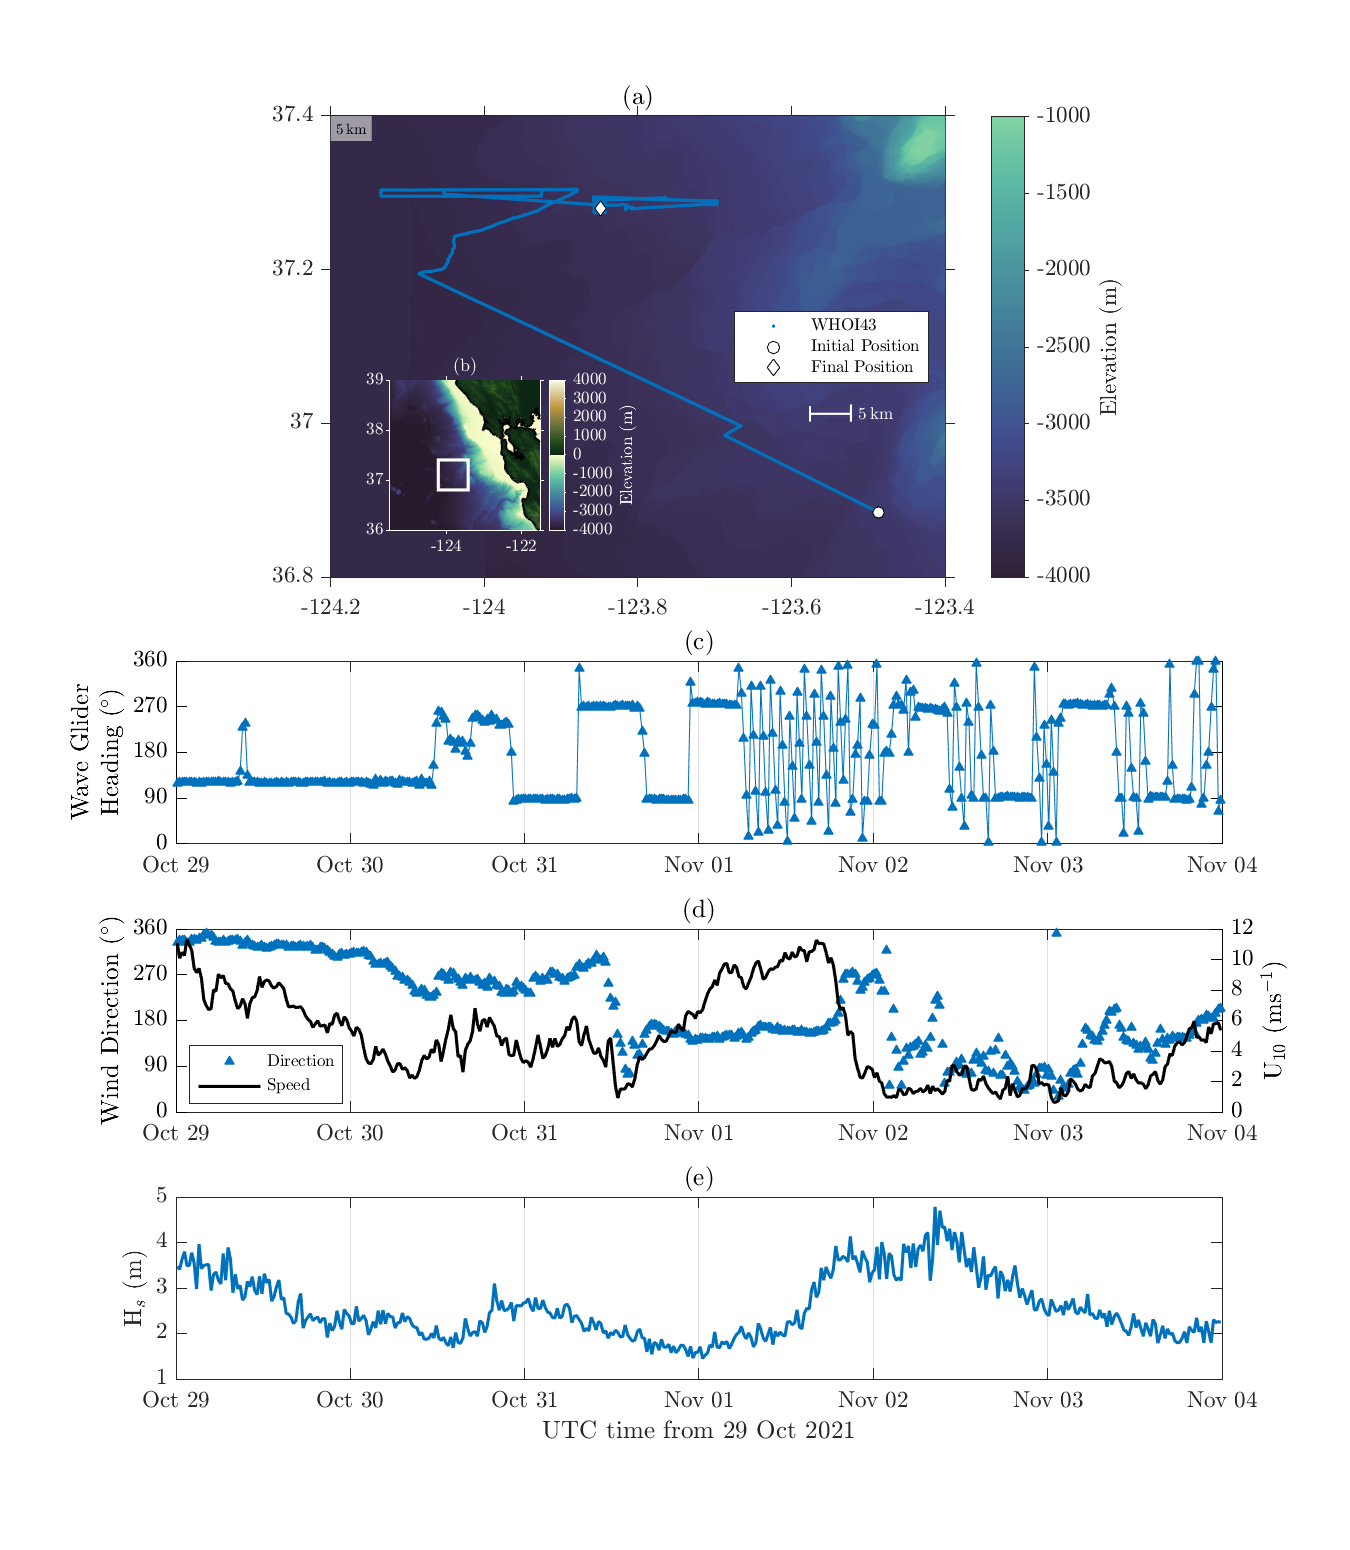
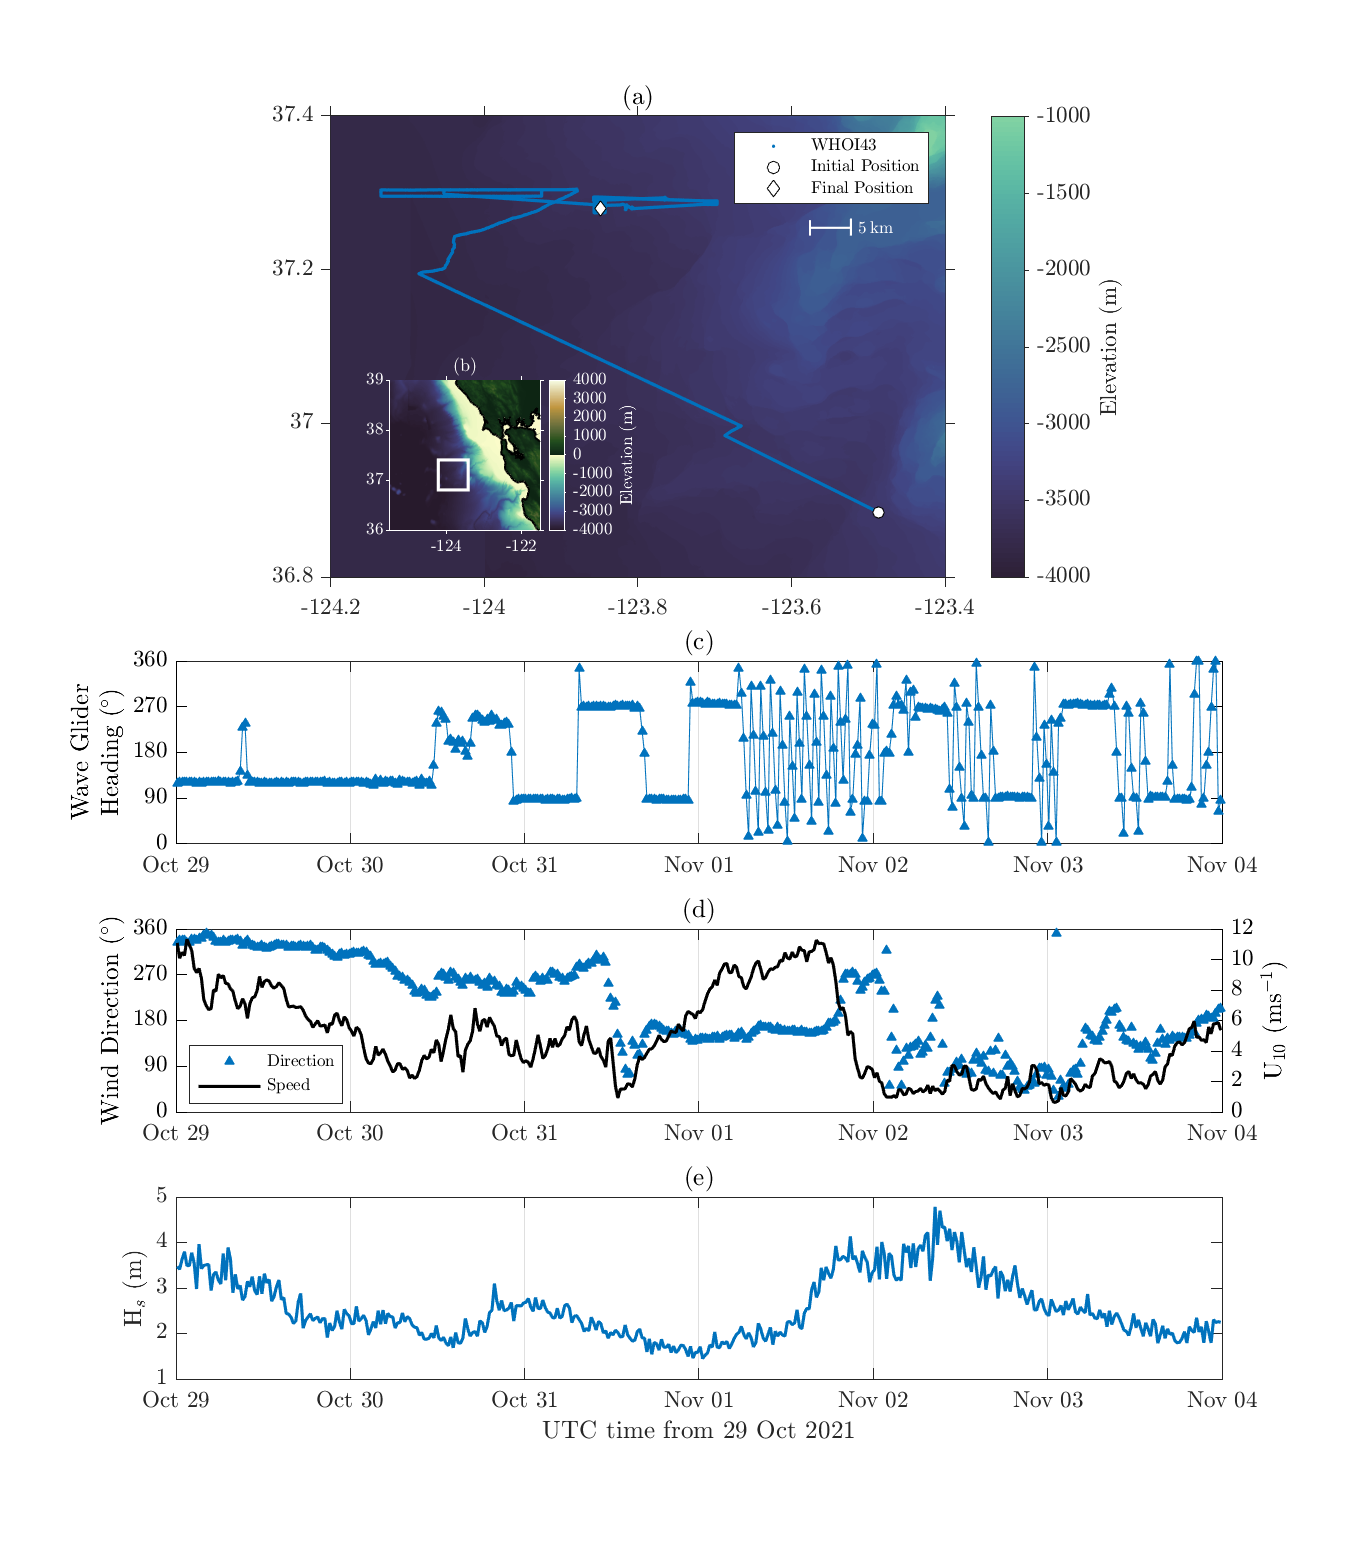
Remove gray length scale and reposition other.

Changed region(s): [[0.5289, 0.0619, 0.7156, 0.1548], [0.5289, 0.1858, 0.7156, 0.2477], [0.2489, 0.0619, 0.28, 0.0929]]

diff --git a/src/fig02.m b/src/fig02.m
@@ -395,7 +395,7 @@ xlim([lon_exp_l, lon_exp_h])
 ylim([lat_exp_l, lat_exp_h])
 xticks(-124.2:0.2:-123.4)
 yticks(36.8:0.2:37.4)
-legend([pc2, pc3, pc4], 'WHOI43', 'Initial Position', 'Final Position', 'Location', 'East', 'Fontsize', fontsize-3)
+legend([pc2, pc3, pc4], 'WHOI43', 'Initial Position', 'Final Position', 'Location', 'northeast', 'Fontsize', fontsize-3)
 grid on
 set(gca,'FontSize',fontsize)
 set(gca,'TickDir','out','TickLength', [0.015,0.75]);
@@ -522,27 +522,27 @@ py_i = y_ax1(1)+0.281;
 py_f = y_ax1(1)+0.281; 
 
 % Create scale bar
-annotation('textbox',...
-    [px_i py_i px_f - px_i  0.0161290322580648],...
-    'String',{'5$\:$km'},'Interpreter','latex', ...
-    'HorizontalAlignment','center','FontSize',7,'FitBoxToText','off',...
-    'FaceAlpha',0.7,'EdgeColor','none','BackgroundColor',[0.8 0.8 0.8]);
+% annotation('textbox',...
+%     [px_i py_i px_f - px_i  0.0161290322580648],...
+%     'String',{'5$\:$km'},'Interpreter','latex', ...
+%     'HorizontalAlignment','center','FontSize',7,'FitBoxToText','off',...
+%     'FaceAlpha',0.7,'EdgeColor','none','BackgroundColor',[0.8 0.8 0.8]);
 
 %----- Left Vertical Bar -----%
 annotation('line',[0.6 0.6],...
-    [0.828-0.1 0.838-0.1],'Color',[1 1 1],'LineWidth',1);
+    [0.828+0.02 0.838+0.02],'Color',[1 1 1],'LineWidth',1);
 
 %----- Right Vertical Bar -----%
 annotation('line',[0.6+(px_f-px_i) 0.6+(px_f-px_i)],...
-    [0.828-0.1 0.839-0.1],'Color',[1 1 1],'LineWidth',1);
+    [0.828+0.02 0.839+0.02],'Color',[1 1 1],'LineWidth',1);
 
 %----- Horizontal Bar -----%
 annotation('line',[0.6  0.6+(px_f-px_i)],...
-    [0.833-0.1 0.833-0.1],'Color',[1 1 1],'LineWidth',1);
+    [0.833+0.02 0.833+0.02],'Color',[1 1 1],'LineWidth',1);
 
 %----- Text Box -----%
 annotation('textbox',...
-    [0.627543209876543 0.829301075268817-0.1 0.0591851851851851 0.013440860215054],...
+    [0.627543209876543 0.829301075268817+0.02 0.0591851851851851 0.013440860215054],...
     'Color',[1 1 1],'String',{'5$\:$km'},'Interpreter','latex',...
     'FontSize',8,'FitBoxToText','off','EdgeColor','none');
 

diff --git a/src/fig01.m b/src/fig01.m
@@ -496,27 +496,27 @@ py_i = y_ax1(1)+0.281;
 py_f = y_ax1(1)+0.281; 
 
 % Create scale bar
-annotation('textbox',...
-    [px_i py_i px_f - px_i  0.0161290322580648],...
-    'String',{'1$\:$km'},'Interpreter','latex', ...
-    'HorizontalAlignment','center','FontSize',7,'FitBoxToText','off',...
-    'FaceAlpha',0.7,'EdgeColor','none','BackgroundColor',[0.8 0.8 0.8]);
+% annotation('textbox',...
+%     [px_i py_i px_f - px_i  0.0161290322580648],...
+%     'String',{'1$\:$km'},'Interpreter','latex', ...
+%     'HorizontalAlignment','center','FontSize',7,'FitBoxToText','off',...
+%     'FaceAlpha',0.7,'EdgeColor','none','BackgroundColor',[0.8 0.8 0.8]);
 
 %----- Left Vertical Bar -----%
 annotation('line',[0.6 0.6],...
-    [0.828 0.838],'Color',[1 1 1],'LineWidth',1);
+    [0.828+0.009 0.838+0.009],'Color',[1 1 1],'LineWidth',1);
 
 %----- Right Vertical Bar -----%
 annotation('line',[0.6+(px_f-px_i) 0.6+(px_f-px_i)],...
-    [0.828 0.839],'Color',[1 1 1],'LineWidth',1);
+    [0.828+0.009 0.839+0.009],'Color',[1 1 1],'LineWidth',1);
 
 %----- Horizontal Bar -----%
 annotation('line',[0.6  0.6+(px_f-px_i)],...
-    [0.833 0.833],'Color',[1 1 1],'LineWidth',1);
+    [0.833+0.009 0.833+0.009],'Color',[1 1 1],'LineWidth',1);
 
 %----- Text Box -----%
 annotation('textbox',...
-    [0.627543209876543 0.829301075268817 0.0591851851851851 0.013440860215054],...
+    [0.627543209876543 0.829301075268817+0.009 0.0591851851851851 0.013440860215054],...
     'Color',[1 1 1],'String',{'1$\:$km'},'Interpreter','latex',...
     'FontSize',8,'FitBoxToText','off','EdgeColor','none');
 
